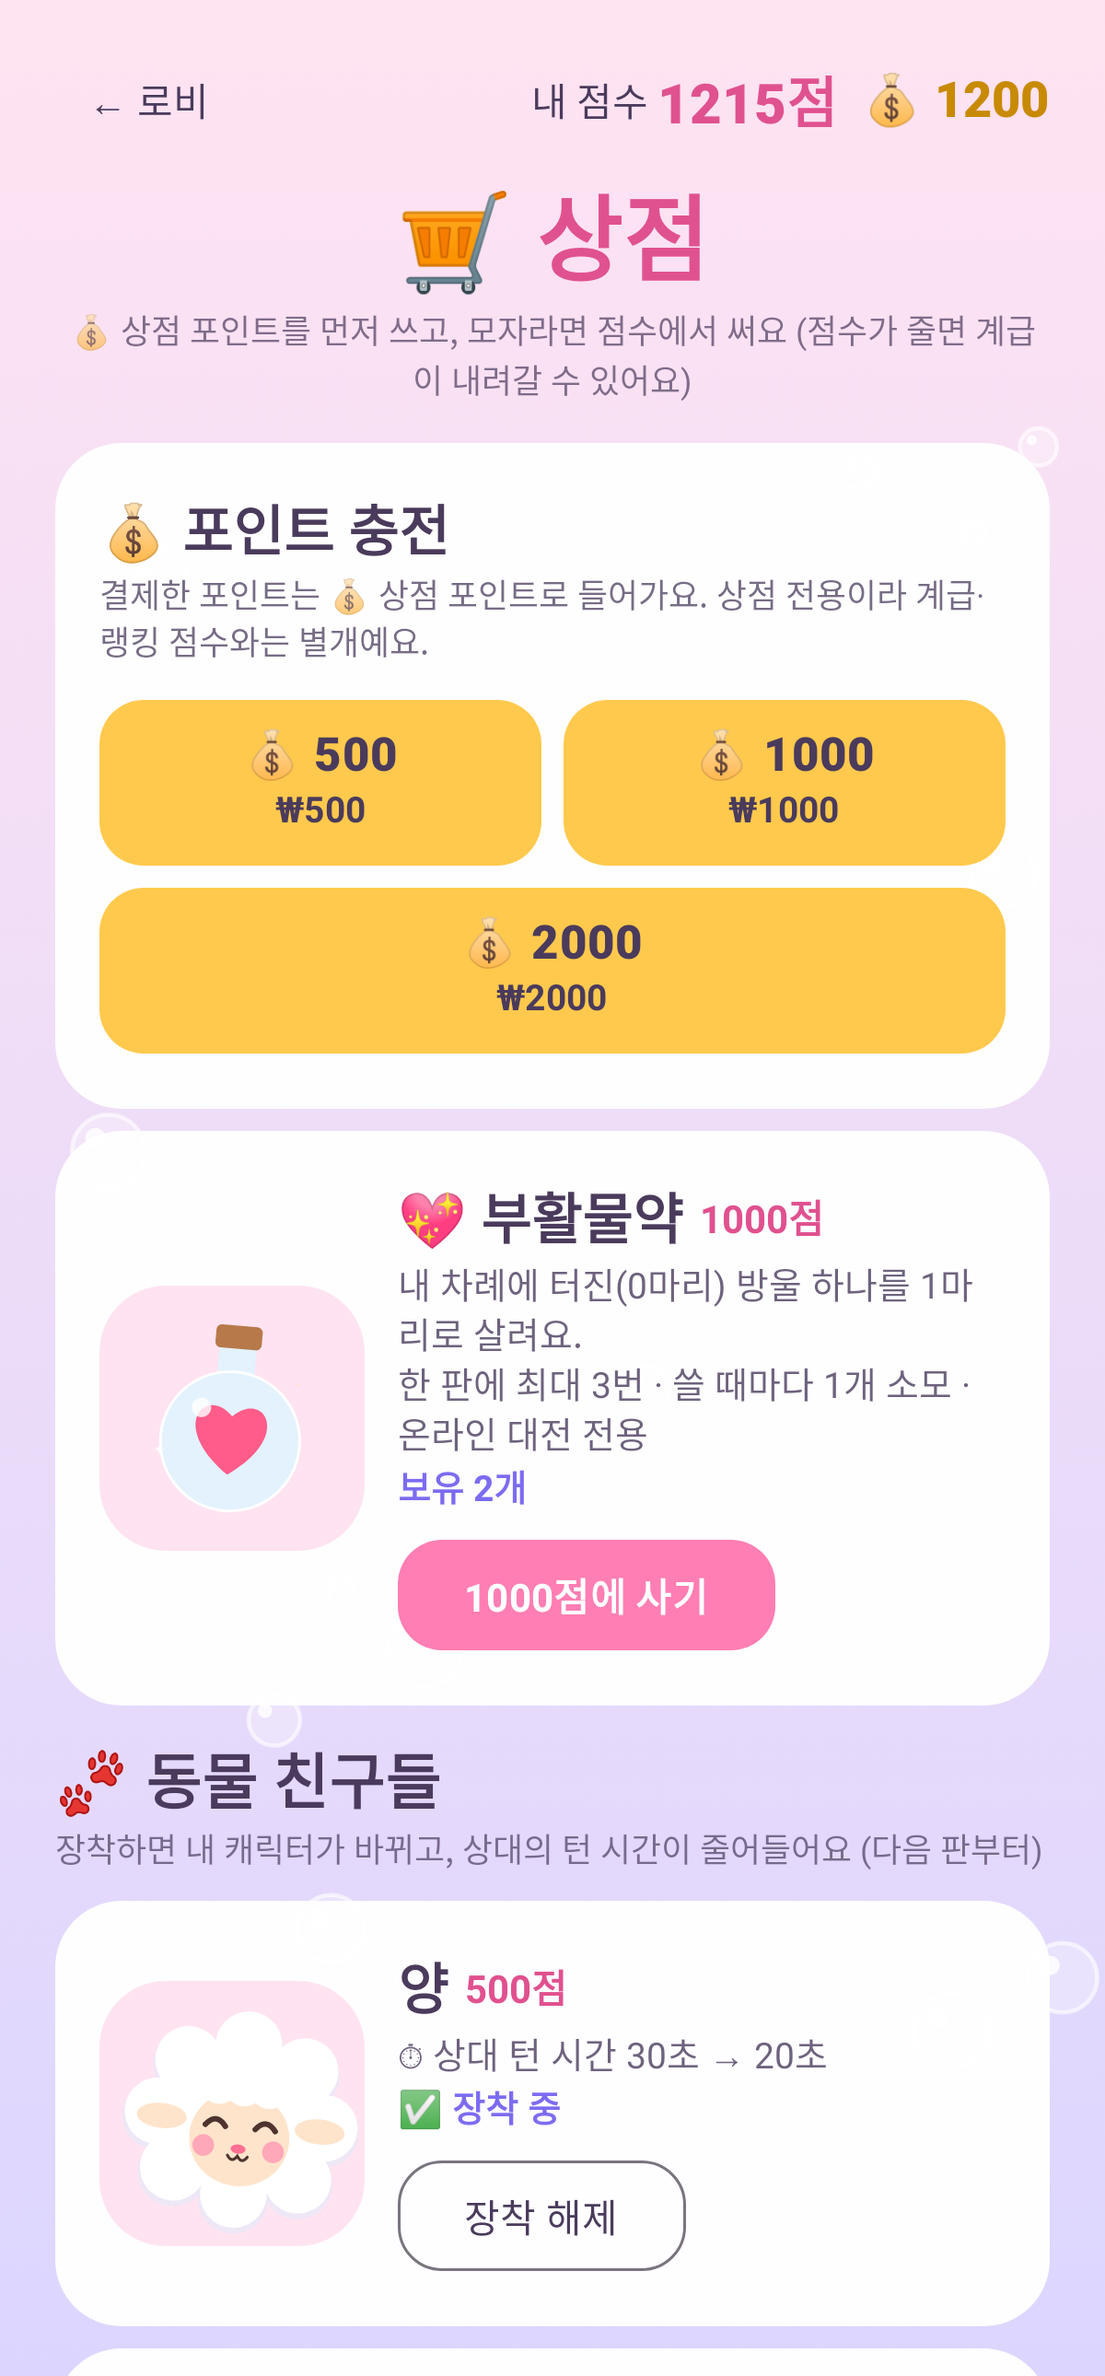
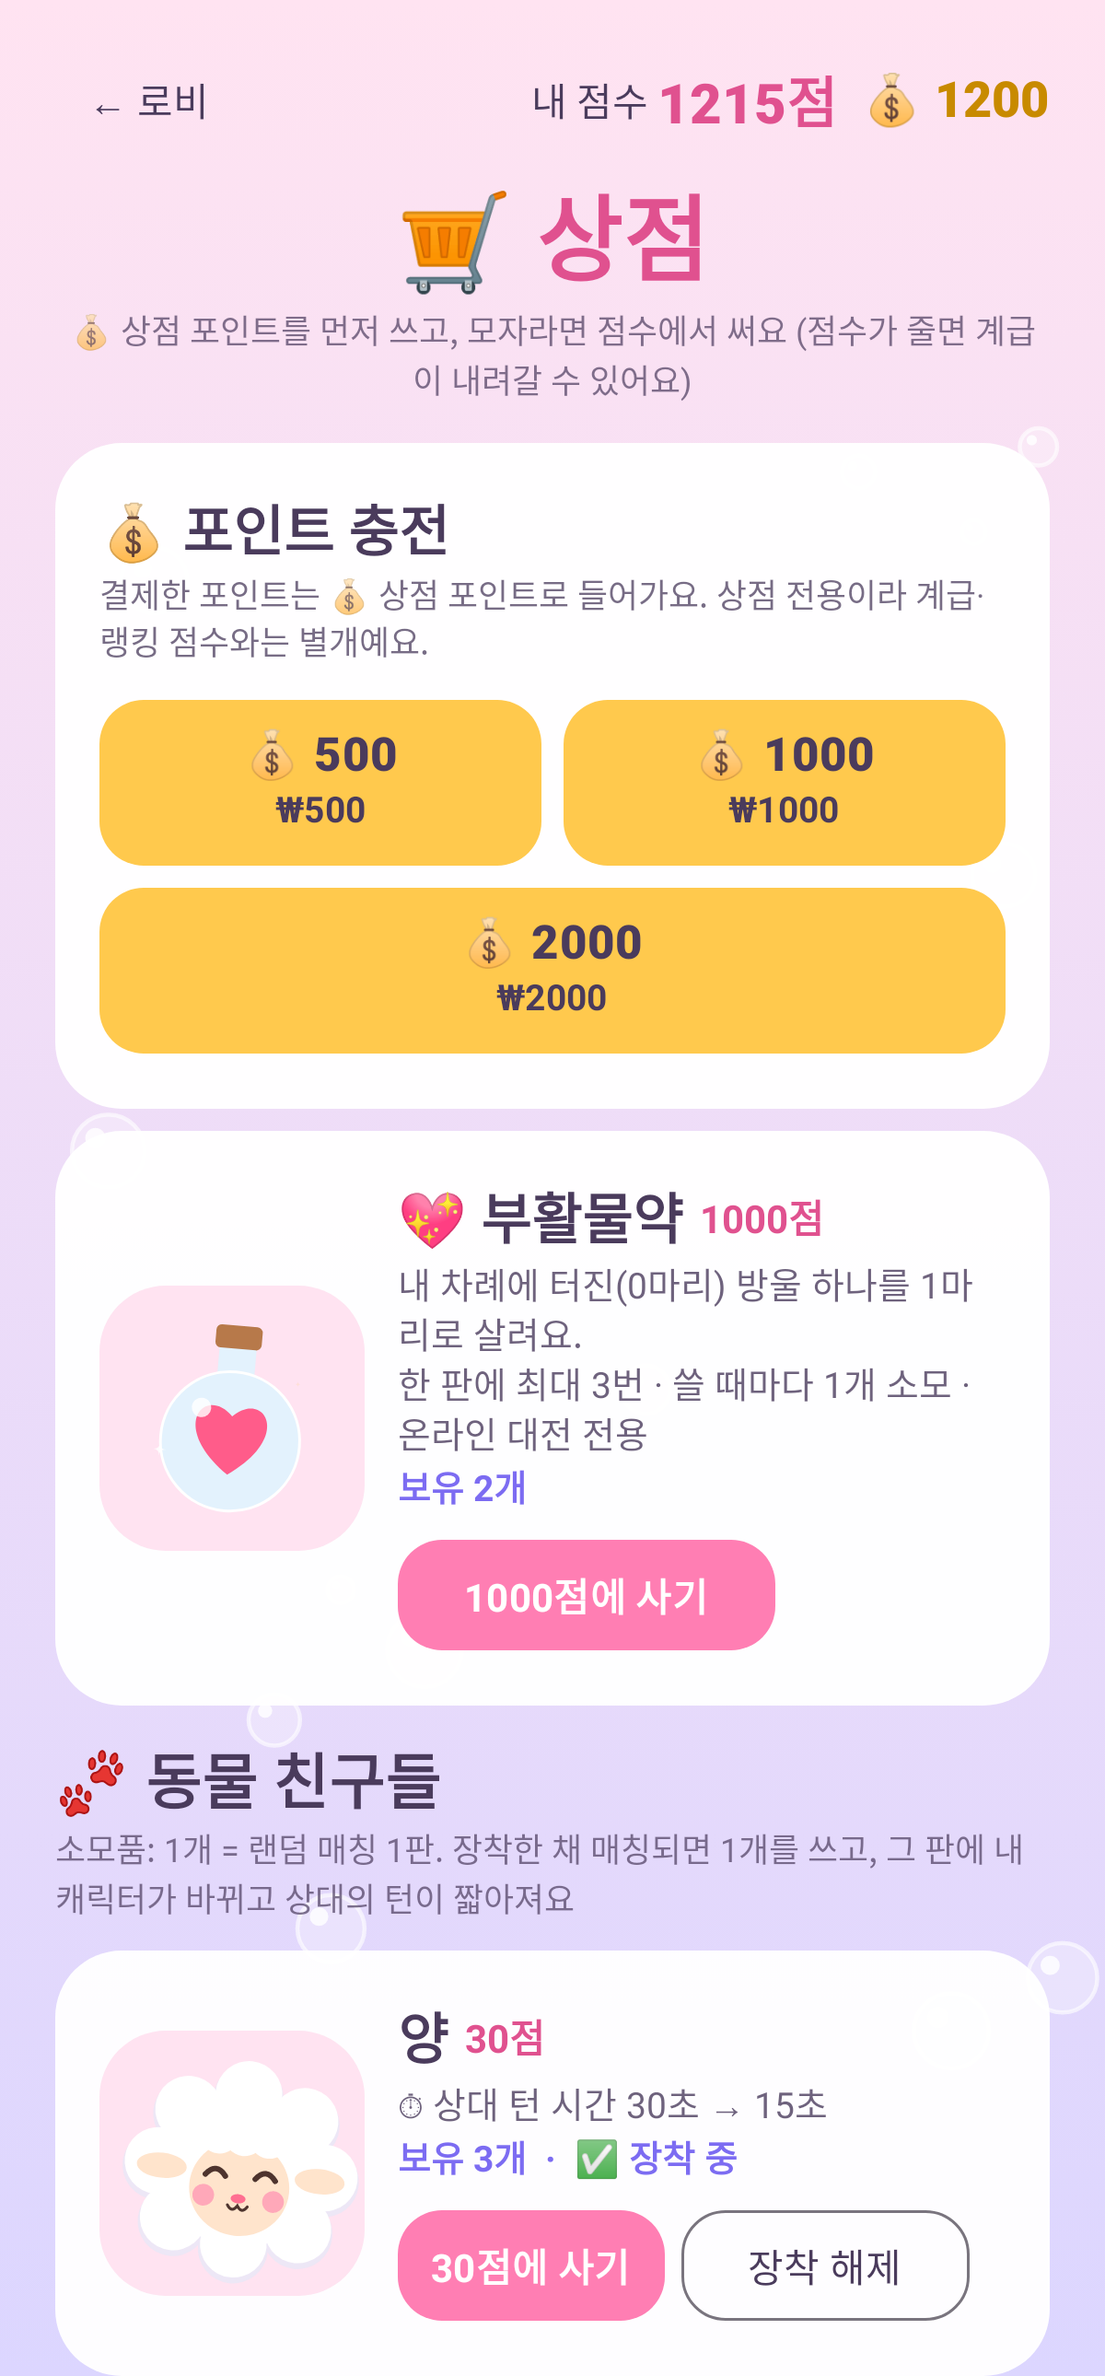
Make animals consumable, retune them, and match by similar score
Sheep/puppy/giraffe now cost 30/50/100 and cut the opponent's turn to
15/10/5 seconds; one is used per random match while equipped. Random
matching prefers the closest score, widening the window the longer a
player waits and matching anyone after a minute.

Claude-Session: https://claude.ai/code/session_01BuUDiGkM2tHykbpiLtTpg7

Changed region(s): [[0.0308, 0.7752, 0.9558, 1.0]]

diff --git a/functions/src/index.ts b/functions/src/index.ts
@@ -10,6 +10,7 @@ import { CallableRequest, HttpsError, onCall, onRequest } from "firebase-functio
 import { logger } from "firebase-functions";
 import { googleKeyLookup, verifySsv } from "./ssv";
 import { normalizeCode, randomCode } from "./referral";
+import { pickOpponent } from "./matching";
 import { GoogleAuth } from "google-auth-library";
 import { createHash } from "node:crypto";
 import { AiLevel, chooseMove, isAiLevel } from "./ai";
@@ -148,6 +149,21 @@ function finishGame(
   });
 }
 
+/** 장착한 동물이 남아 있으면 1개를 쓰고 그 동물을, 없으면 null (장착도 해제). */
+function useAnimal(tx: Transaction, profile: DocumentSnapshot): string | null {
+  const equipped = profile.get("equipped") as string | null | undefined;
+  if (!equipped || !ANIMALS[equipped]) return null;
+  const left = (profile.get(`animals.${equipped}`) as number | undefined) ?? 0;
+  if (left <= 0) {
+    tx.update(profile.ref, { equipped: null });
+    return null;
+  }
+  tx.update(profile.ref, left - 1 > 0
+    ? { [`animals.${equipped}`]: FieldValue.increment(-1) }
+    : { [`animals.${equipped}`]: 0, equipped: null });
+  return equipped;
+}
+
 async function readPlayers(tx: Transaction, game: Game) {
   // AI 쪽은 사용자 문서가 없으므로, 사람 문서를 두 자리에 모두 넣어 둠 (finishGame이 사람 쪽만 씀)
   if (game.vsAi) {
@@ -181,11 +197,17 @@ export const matchmake = onCall(async (req) => {
     const myProfile = await tx.get(db.collection("users").doc(uid));
     if (!myProfile.exists) throw err("failed-precondition", "프로필이 없어요", "Profile not found");
 
-    const waiting = await tx.get(db.collection("queue").where("status", "==", "waiting").limit(50));
-    const candidates = waiting.docs
-      .filter((d) => d.id !== uid && now - ((d.get("heartbeat") as number) ?? 0) < QUEUE_STALE_MS)
-      .sort((a, b) => (a.get("createdAt") as number) - (b.get("createdAt") as number));
-    const opp = candidates[0];
+    const waiting = await tx.get(db.collection("queue").where("status", "==", "waiting").limit(100));
+    const fresh = waiting.docs.filter((d) => d.id !== uid && now - ((d.get("heartbeat") as number) ?? 0) < QUEUE_STALE_MS);
+    // 비슷한 점수끼리 (오래 기다릴수록 범위가 넓어지고 1분 뒤엔 아무나)
+    const myScore = (myProfile.get("score") as number | undefined) ?? START_SCORE;
+    const myCreatedAt = me.exists && me.get("status") === "waiting" ? (me.get("createdAt") as number) : now;
+    const picked = pickOpponent(
+      { id: uid, score: myScore, createdAt: myCreatedAt },
+      fresh.map((d) => ({ id: d.id, score: (d.get("score") as number | undefined) ?? START_SCORE, createdAt: d.get("createdAt") as number })),
+      now,
+    );
+    const opp = picked ? fresh.find((d) => d.id === picked.id) : undefined;
     const oppProfile = opp ? await tx.get(db.collection("users").doc(opp.id)) : null;
 
     const stillWaiting = me.exists && me.get("status") === "waiting";
@@ -194,6 +216,7 @@ export const matchmake = onCall(async (req) => {
         status: "waiting",
         heartbeat: now,
         createdAt: stillWaiting ? me.get("createdAt") : now,
+        score: myScore,
         gameId: null,
       });
       return { gameId: null };
@@ -202,6 +225,9 @@ export const matchmake = onCall(async (req) => {
     const gameRef = db.collection("games").doc();
     const iAmCat = Math.random() < 0.5;
     const [cat, ham] = iAmCat ? [myProfile, oppProfile] : [oppProfile, myProfile];
+    // 동물은 소모품: 장착한 동물이 남아 있으면 이번 판에 1개 사용
+    const catAnimal = useAnimal(tx, cat);
+    const hamAnimal = useAnimal(tx, ham);
     tx.set(gameRef, {
       catUid: cat.id,
       hamUid: ham.id,
@@ -215,10 +241,10 @@ export const matchmake = onCall(async (req) => {
       hamSplits: MAX_SPLITS,
       catRevives: revivesForGame(cat.get("potions")),
       hamRevives: revivesForGame(ham.get("potions")),
-      catSkin: cat.get("equipped") ?? null,
-      hamSkin: ham.get("equipped") ?? null,
-      catTurnMs: turnLimitAgainst(ham.get("equipped")),
-      hamTurnMs: turnLimitAgainst(cat.get("equipped")),
+      catSkin: catAnimal,
+      hamSkin: hamAnimal,
+      catTurnMs: turnLimitAgainst(hamAnimal),
+      hamTurnMs: turnLimitAgainst(catAnimal),
       turn: "CAT",
       status: "playing",
       winner: null,
@@ -378,6 +404,8 @@ export const startAiGame = onCall(async (req) => {
   const myName = me.get("name") ?? "나";
   const myScore = me.get("score") ?? START_SCORE;
   const myRevives = revivesForGame(me.get("potions"));
+  const eq = me.get("equipped") as string | null | undefined;
+  const aiSkin = eq && ((me.get(`animals.${eq}`) as number | undefined) ?? 0) > 0 ? eq : null;
   await gameRef.set({
     vsAi: level,
     catUid: humanIsCat ? uid : AI_UID,
@@ -386,8 +414,9 @@ export const startAiGame = onCall(async (req) => {
     hamName: humanIsCat ? aiName : myName,
     catScore: humanIsCat ? myScore : 0,
     hamScore: humanIsCat ? 0 : myScore,
-    catSkin: humanIsCat ? me.get("equipped") ?? null : null,
-    hamSkin: humanIsCat ? null : me.get("equipped") ?? null,
+    // AI 대전은 시간 제한이 없어 동물을 쓰지 않음 (남아 있으면 모습만)
+    catSkin: humanIsCat ? aiSkin : null,
+    hamSkin: humanIsCat ? null : aiSkin,
     cat: [1, 1],
     ham: [1, 1],
     catSplits: MAX_SPLITS,
@@ -527,15 +556,14 @@ export const buyItem = onCall(async (req) => {
     const pay = splitPayment(price, coins, score);
     if (!pay) throw err("failed-precondition", `포인트가 부족해요 (${price} 필요)`, `Not enough points (${price} needed)`);
     const { fromCoins, fromScore } = pay;
-    const owned = (u.get("owned") as string[] | undefined) ?? [];
-    if (item !== "POTION" && owned.includes(item)) throw err("already-exists", "이미 가지고 있어요", "You already own this");
     tx.update(
       userRef,
       item === "POTION"
         ? { score: FieldValue.increment(-fromScore), coins: FieldValue.increment(-fromCoins), potions: FieldValue.increment(1) }
         : {
+          // 동물은 소모품: 1개 추가하고 바로 장착
           score: FieldValue.increment(-fromScore), coins: FieldValue.increment(-fromCoins),
-          owned: FieldValue.arrayUnion(item), equipped: item,
+          [`animals.${item}`]: FieldValue.increment(1), equipped: item,
         },
     );
   });
@@ -552,8 +580,8 @@ export const equipAnimal = onCall(async (req) => {
   const userRef = db.collection("users").doc(uid);
   await db.runTransaction(async (tx) => {
     const u = await tx.get(userRef);
-    const owned = (u.get("owned") as string[] | undefined) ?? [];
-    if (animal !== null && !owned.includes(animal as string)) {
+    const left = animal === null ? 0 : ((u.get(`animals.${animal}`) as number | undefined) ?? 0);
+    if (animal !== null && left <= 0) {
       throw err("failed-precondition", "아직 없는 캐릭터예요", "You don't own this character yet");
     }
     tx.update(userRef, { equipped: animal });

diff --git a/functions/src/matching.ts b/functions/src/matching.ts
@@ -1,0 +1,38 @@
+// 랜덤 매칭 상대 고르기 (순수 함수, 테스트용으로 분리)
+// 비슷한 점수끼리 먼저 매칭하고, 오래 기다릴수록 허용 범위를 넓힙니다.
+
+export interface Waiter {
+  id: string;
+  score: number;
+  /** 대기열에 들어온 시각 (ms) */
+  createdAt: number;
+}
+
+/** 이 시간이 지나면 점수와 상관없이 매칭 */
+export const ANYONE_AFTER_MS = 60_000;
+
+/** 기다린 시간에 따른 허용 점수 차: 처음 ±150, 1초마다 +25, 1분 지나면 무제한 */
+export function scoreWindow(waitMs: number): number {
+  if (waitMs >= ANYONE_AFTER_MS) return Number.POSITIVE_INFINITY;
+  return 150 + Math.floor(Math.max(0, waitMs) / 1000) * 25;
+}
+
+/**
+ * 나와 매칭할 상대. 두 사람 중 더 오래 기다린 쪽의 범위 안에 있으면 매칭 가능하고,
+ * 그중 점수 차가 가장 작은 사람 (같으면 먼저 온 사람).
+ */
+export function pickOpponent(me: Waiter, candidates: Waiter[], now: number): Waiter | null {
+  let best: Waiter | null = null;
+  let bestDiff = Number.POSITIVE_INFINITY;
+  for (const c of candidates) {
+    if (c.id === me.id) continue;
+    const diff = Math.abs(c.score - me.score);
+    const allowed = Math.max(scoreWindow(now - me.createdAt), scoreWindow(now - c.createdAt));
+    if (diff > allowed) continue;
+    if (diff < bestDiff || (diff === bestDiff && best !== null && c.createdAt < best.createdAt)) {
+      best = c;
+      bestDiff = diff;
+    }
+  }
+  return best;
+}

diff --git a/app/src/main/java/com/bubble/game/data/OnlineRepository.kt b/app/src/main/java/com/bubble/game/data/OnlineRepository.kt
@@ -39,8 +39,8 @@ data class Profile(
     val losses: Int,
     /** 가진 부활물약 수 */
     val potions: Int = 0,
-    /** 산 동물 캐릭터들 */
-    val owned: Set<Animal> = emptySet(),
+    /** 동물별 남은 개수 (소모품: 랜덤 매칭 1판에 1개) */
+    val animals: Map<Animal, Int> = emptyMap(),
     /** 장착한 동물 (null이면 기본 고양이/햄스터) */
     val equipped: Animal? = null,
     /** 내 추천 코드 (처음 친구 초대를 열 때 서버가 만듦) */
@@ -55,6 +55,11 @@ data class Profile(
     val coins: Int = 0,
 ) {
     val rank: Rank get() = Rank.of(score)
+
+    /** 남아 있는 동물들 */
+    val owned: Set<Animal> get() = animals.filterValues { it > 0 }.keys
+
+    fun animalCount(a: Animal): Int = animals[a] ?: 0
 }
 
 data class OnlineGame(
@@ -264,7 +269,9 @@ class OnlineRepository(context: Context) {
         wins = (getLong("wins") ?: 0).toInt(),
         losses = (getLong("losses") ?: 0).toInt(),
         potions = (getLong("potions") ?: 0).toInt(),
-        owned = (get("owned") as? List<*>)?.mapNotNull { Animal.of(it as? String) }?.toSet() ?: emptySet(),
+        animals = (get("animals") as? Map<*, *>)
+            ?.mapNotNull { (k, v) -> Animal.of(k as? String)?.let { a -> a to ((v as? Number)?.toInt() ?: 0) } }
+            ?.toMap() ?: emptyMap(),
         equipped = Animal.of(getString("equipped")),
         refCode = getString("refCode"),
         referred = getString("referredBy") != null,

diff --git a/functions/test/matching.test.ts b/functions/test/matching.test.ts
@@ -1,0 +1,29 @@
+import { test } from "node:test";
+import assert from "node:assert/strict";
+import { pickOpponent, scoreWindow } from "../src/matching";
+
+const now = 1_000_000;
+const w = (id: string, score: number, waitedMs: number) => ({ id, score, createdAt: now - waitedMs });
+
+test("window widens with waiting time and opens after a minute", () => {
+  assert.equal(scoreWindow(0), 150);
+  assert.equal(scoreWindow(10_000), 400);
+  assert.equal(scoreWindow(60_000), Number.POSITIVE_INFINITY);
+});
+
+test("picks the closest score within the window", () => {
+  const me = w("me", 1200, 0);
+  const pick = pickOpponent(me, [w("a", 1500, 0), w("b", 1260, 0), w("c", 1100, 0)], now);
+  assert.equal(pick?.id, "b");
+});
+
+test("does not match far scores until someone has waited long enough", () => {
+  const me = w("me", 1000, 0);
+  assert.equal(pickOpponent(me, [w("far", 3000, 5_000)], now), null);
+  assert.equal(pickOpponent(me, [w("far", 3000, 61_000)], now)?.id, "far");
+});
+
+test("never matches yourself", () => {
+  const me = w("me", 1000, 0);
+  assert.equal(pickOpponent(me, [w("me", 1000, 0)], now), null);
+});

diff --git a/app/src/main/java/com/bubble/game/game/Catalog.kt b/app/src/main/java/com/bubble/game/game/Catalog.kt
@@ -47,13 +47,14 @@ enum class Rank(
 }
 
 /**
- * 상점에서 파는 동물 캐릭터. 장착하면 상대의 턴 제한 시간이 줄어듭니다.
+ * 상점에서 파는 동물 캐릭터 (소모품). 장착한 채 랜덤 매칭이 잡히면 1개를 쓰고,
+ * 그 판에 내 캐릭터가 바뀌고 상대의 턴 제한 시간이 줄어듭니다.
  * 값은 functions/src/catalog.ts와 같아야 합니다.
  */
 enum class Animal(private val ko: String, private val en: String, val price: Int, val opponentTurnSec: Int) {
-    SHEEP("양", "Sheep", 500, 20),
-    DOG("강아지", "Puppy", 750, 15),
-    GIRAFFE("기린", "Giraffe", 1000, 10),
+    SHEEP("양", "Sheep", 30, 15),
+    DOG("강아지", "Puppy", 50, 10),
+    GIRAFFE("기린", "Giraffe", 100, 5),
     ;
 
     /** 순서: zh, hi, es, fr, ar, de, pt, ru, ja */

diff --git a/functions/src/catalog.ts b/functions/src/catalog.ts
@@ -10,11 +10,11 @@ export function revivesForGame(potions: unknown): number {
   return Math.min(MAX_REVIVES_PER_GAME, n);
 }
 
-/** 동물 캐릭터: 장착하면 상대의 턴 제한 시간이 줄어듭니다. */
+/** 동물 캐릭터 (소모품): 장착한 채 랜덤 매칭이 잡히면 1개를 쓰고, 그 판에 상대의 턴 시간을 줄입니다. */
 export const ANIMALS: Record<string, { price: number; opponentTurnMs: number }> = {
-  SHEEP: { price: 500, opponentTurnMs: 20_000 },
-  DOG: { price: 750, opponentTurnMs: 15_000 },
-  GIRAFFE: { price: 1000, opponentTurnMs: 10_000 },
+  SHEEP: { price: 30, opponentTurnMs: 15_000 },
+  DOG: { price: 50, opponentTurnMs: 10_000 },
+  GIRAFFE: { price: 100, opponentTurnMs: 5_000 },
 };
 
 export const DEFAULT_TURN_MS = 30_000;

diff --git a/functions/test/game.test.ts b/functions/test/game.test.ts
@@ -77,9 +77,9 @@ test("revives per game are capped at three and follow potions owned", () => {
 
 test("opponent animal shortens my turn", () => {
   assert.equal(turnLimitAgainst(null), 30_000);
-  assert.equal(turnLimitAgainst("SHEEP"), 20_000);
-  assert.equal(turnLimitAgainst("DOG"), 15_000);
-  assert.equal(turnLimitAgainst("GIRAFFE"), 10_000);
+  assert.equal(turnLimitAgainst("SHEEP"), 15_000);
+  assert.equal(turnLimitAgainst("DOG"), 10_000);
+  assert.equal(turnLimitAgainst("GIRAFFE"), 5_000);
   assert.equal(turnLimitAgainst("DRAGON"), 30_000);
 });
 

diff --git a/app/src/test/java/com/bubble/game/ui/ScreenshotTest.kt b/app/src/test/java/com/bubble/game/ui/ScreenshotTest.kt
@@ -55,7 +55,7 @@ class ScreenshotTest {
 
     private fun richProfile(score: Int) = com.bubble.game.data.Profile(
         uid = "me", name = "말랑고양이42", score = score, wins = 12, losses = 5, potions = 2,
-        owned = setOf(com.bubble.game.game.Animal.SHEEP), equipped = com.bubble.game.game.Animal.SHEEP,
+        animals = mapOf(com.bubble.game.game.Animal.SHEEP to 3, com.bubble.game.game.Animal.GIRAFFE to 1), equipped = com.bubble.game.game.Animal.SHEEP,
         refCode = "K7Q2MX", referrals = 3, coins = 1200,
     )
 

diff --git a/app/src/test/java/com/bubble/game/game/CatalogTest.kt b/app/src/test/java/com/bubble/game/game/CatalogTest.kt
@@ -30,8 +30,8 @@ class CatalogTest {
 
     @Test
     fun animalsMatchServerCatalog() {
-        assertEquals(listOf(500, 750, 1000), Animal.entries.map { it.price })
-        assertEquals(listOf(20, 15, 10), Animal.entries.map { it.opponentTurnSec })
+        assertEquals(listOf(30, 50, 100), Animal.entries.map { it.price })
+        assertEquals(listOf(15, 10, 5), Animal.entries.map { it.opponentTurnSec })
         assertEquals(Animal.DOG, Animal.of("DOG"))
         assertEquals(null, Animal.of(null))
     }

diff --git a/README.md b/README.md
@@ -57,9 +57,11 @@
 | 상품 | 가격 | 효과 |
 |---|---|---|
 | 💖 부활물약 | 1000점 | 내 차례에 터진 방울 하나를 1마리로 살림. 한 판 최대 3번, 쓸 때마다 1개 소모 (온라인 전용) |
-| 🐑 양 | 500점 | 장착하면 상대 턴 시간 30초 → 20초 |
-| 🐶 강아지 | 750점 | 상대 턴 시간 → 15초 |
-| 🦒 기린 | 1000점 | 상대 턴 시간 → 10초 |
+| 🐑 양 | 30점 | 소모품 · 그 판의 상대 턴 시간 30초 → 15초 |
+| 🐶 강아지 | 50점 | 소모품 · 상대 턴 시간 → 10초 |
+| 🦒 기린 | 100점 | 소모품 · 상대 턴 시간 → 5초 |
+
+동물은 **소모품**입니다. 장착한 채 랜덤 매칭이 잡히면 1개를 쓰고 그 판에만 캐릭터와 효과가 적용되며, 다 쓰면 기본 캐릭터로 돌아갑니다 (AI 대전에서는 쓰지 않음).
 
 구매·장착·물약 사용은 모두 서버(Cloud Functions)가 점수와 보유 여부를 검사합니다.
 
@@ -67,7 +69,7 @@
 
 - 구글 로그인: 점수·전적이 구글 계정에 저장 (상대에게는 닉네임만 보임)
 - 로비: 닉네임(자동 생성, 변경 가능), 점수·전적, 랭킹 TOP 30, 로그아웃
-- 랜덤 매칭: Firestore 대기열로 익명 상대와 자동 연결
+- 랜덤 매칭: 비슷한 점수끼리 먼저 연결 (처음 ±150점, 기다릴수록 범위 확대, 1분 뒤엔 아무나)
 - 온라인 대전: 실시간 동기화, 턴 타이머, 기권/시간초과 처리
 - AI 연습: 쉬움 / 보통 / 어려움 (미니맥스 AI, 오프라인)
 - 애니메이션: 숨쉬는 방울, 깜빡이는 캐릭터, 4마리 위험 떨림, 펑 터지는 파티클

diff --git a/docs/store-listing.md b/docs/store-listing.md
@@ -27,7 +27,7 @@ Bubble 냥햄대전
 
 🛒 상점
 • 💖 부활물약: 터진 방울을 다시 살려요
-• 🐑 양 · 🐶 강아지 · 🦒 기린: 장착하면 내 캐릭터가 바뀌고 상대의 턴 시간이 줄어들어요
+• 🐑 양 · 🐶 강아지 · 🦒 기린: 그 판에 내 캐릭터가 바뀌고 상대의 턴 시간이 확 줄어들어요
 
 🤖 AI 대전
 • 쉬움 · 보통 · 어려움, 이기면 난이도에 따라 점수를 받아요
@@ -68,7 +68,7 @@ Jump into a random match and face an anonymous player 1:1. It's quick to learn, 
 
 🛒 Shop
 • 💖 Revive potion: bring a popped bubble back
-• 🐑 Sheep · 🐶 Puppy · 🦒 Giraffe: change your character and shorten your opponent's turn
+• 🐑 Sheep · 🐶 Puppy · 🦒 Giraffe: change your character and cut your opponent's turn short for a match
 
 🤖 AI battles
 • Easy, Normal and Hard, with points for every win
